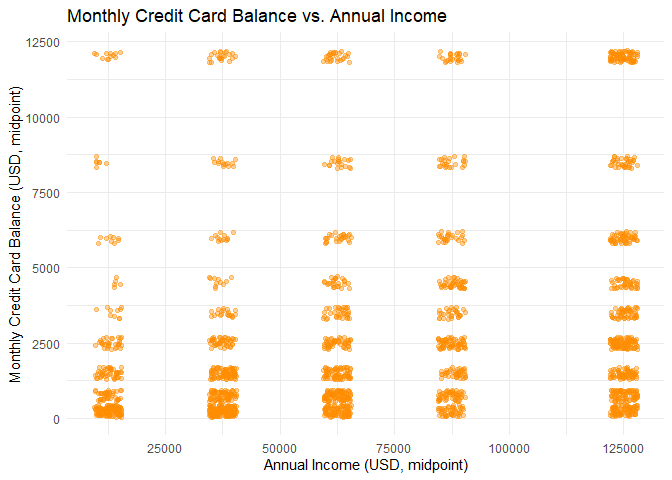
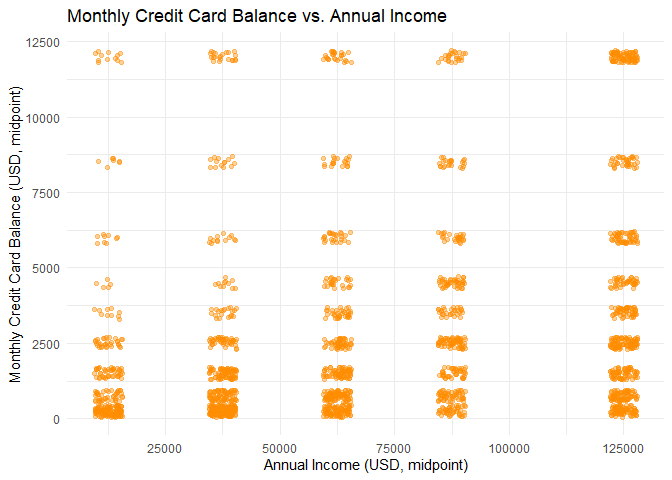
Chossing the best k-value

diff --git a/Customer-Segmentation-Analysis.md b/Customer-Segmentation-Analysis.md
@@ -518,3 +518,119 @@ criteria rather than a visual guess.
 We’re now ready to move into that step: determining the appropriate
 value of k, and then fitting the k-means model to formally define the
 customer segments.
+
+# Step 4: Constructing the K-Means and find the best k-value
+
+**Standardize the variables** It is needed before clustering, since
+income and balance are on very different scales
+
+``` r
+X_scaled <- scale(df_complete |> select(balance_num, income_num))
+
+head(X_scaled)
+```
+
+    ##      balance_num income_num
+    ## [1,]  -0.4496125 -0.8969065
+    ## [2,]  -0.8132339  1.3137637
+    ## [3,]   0.8594246  0.3663336
+    ## [4,]  -0.4496125 -1.5285266
+    ## [5,]  -0.6677854  1.3137637
+    ## [6,]  -0.8132339 -1.5285266
+
+**Elbow method**
+
+``` r
+set.seed(42)
+k_range <- 1:10
+wss <- sapply(k_range, function(k) {
+  kmeans(X_scaled, centers = k, nstart = 10)$tot.withinss
+})
+
+elbow_df <- data.frame(k = k_range, wss = wss)
+
+ggplot(elbow_df, aes(x = k, y = wss)) +
+  geom_line() + geom_point(size = 2) +
+  scale_x_continuous(breaks = k_range) +
+  labs(title = "Elbow Method for Optimal k",
+       x = "Number of Clusters (k)", y = "Within-Cluster Sum of Squares") +
+  theme_minimal()
+```
+
+![](Customer-Segmentation-Analysis_files/figure-gfm/elbow-method-1.png)<!-- -->
+
+**Silhouette score**
+
+``` r
+set.seed(42)
+sil_range <- 2:10
+sil_scores <- sapply(sil_range, function(k) {
+  km <- kmeans(X_scaled, centers = k, nstart = 10)
+  mean(silhouette(km$cluster, dist(X_scaled))[, 3])
+})
+
+sil_df <- data.frame(k = sil_range, sil = sil_scores)
+
+ggplot(sil_df, aes(x = k, y = sil)) +
+  geom_line(color = "darkgreen") + geom_point(size = 2, color = "darkgreen") +
+  scale_x_continuous(breaks = sil_range) +
+  labs(title = "Silhouette Score by k",
+       x = "Number of Clusters (k)", y = "Average Silhouette Width") +
+  theme_minimal()
+```
+
+![](Customer-Segmentation-Analysis_files/figure-gfm/silhouette-method-1.png)<!-- -->
+
+``` r
+sil_df
+```
+
+    ##    k       sil
+    ## 1  2 0.4473913
+    ## 2  3 0.5206755
+    ## 3  4 0.4863002
+    ## 4  5 0.4966504
+    ## 5  6 0.5071919
+    ## 6  7 0.5086997
+    ## 7  8 0.5362761
+    ## 8  9 0.5305577
+    ## 9 10 0.5740086
+
+**Decide on k, with reasoning documented**
+
+``` r
+cat("Silhouette peaks at k =", sil_df$k[which.max(sil_df$sil)],
+    "-- but this is inflated by ties, since both variables are coarse\n",
+    "ordinal buckets (only 10 and 5 possible values). Many respondents share\n",
+    "identical coordinates, letting k-means carve out many small, artificially\n",
+    "'tight' clusters at high k. This is not a genuine signal of 9-10 real\n",
+    "marketing segments.\n\n")
+```
+
+    ## Silhouette peaks at k = 10 -- but this is inflated by ties, since both variables are coarse
+    ##  ordinal buckets (only 10 and 5 possible values). Many respondents share
+    ##  identical coordinates, letting k-means carve out many small, artificially
+    ##  'tight' clusters at high k. This is not a genuine signal of 9-10 real
+    ##  marketing segments.
+
+``` r
+cat("WSS improvement per additional cluster:\n")
+```
+
+    ## WSS improvement per additional cluster:
+
+``` r
+print(round(diff(wss), 1))
+```
+
+    ## [1] -1842.8 -1180.1  -288.5  -208.9  -142.7   -94.7   -59.6   -39.5   -39.0
+
+``` r
+cat("\nThe elbow method shows WSS improvement drops sharply after k=3-4",
+    "(from ~1,180 down to ~289), with only small, diminishing gains after that.",
+    "k = 4 is selected: it sits at the elbow bend and produces segments that",
+    "remain interpretable and actionable for marketing purposes.\n")
+```
+
+    ## 
+    ## The elbow method shows WSS improvement drops sharply after k=3-4 (from ~1,180 down to ~289), with only small, diminishing gains after that. k = 4 is selected: it sits at the elbow bend and produces segments that remain interpretable and actionable for marketing purposes.
